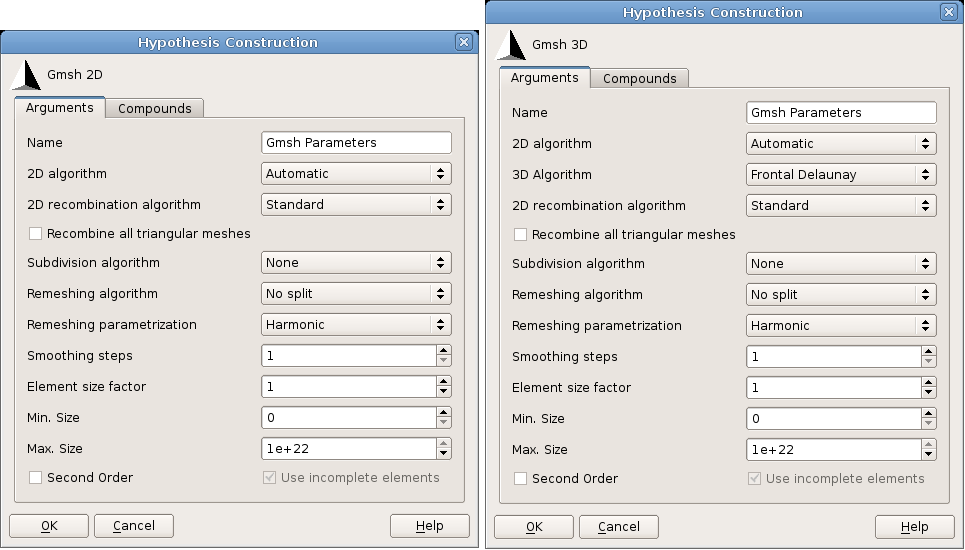
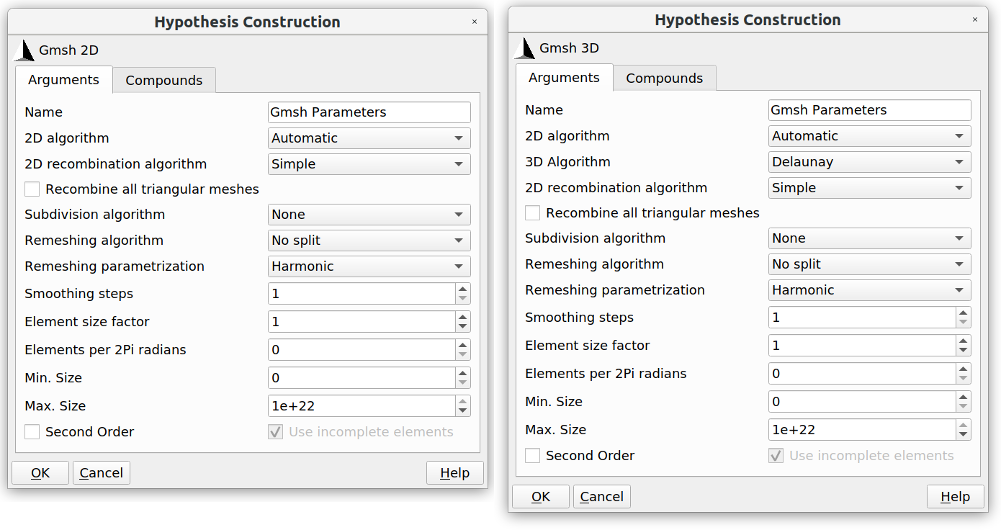
Gmsh upgrade 4.8 -> 4.10 - This commit adds interfaces MeshSizeFromCurvature which is used to control mesh size on curved edges (input [int] # of elements per 2Pi).
- Adds new algorithm for quad meshing from Gmsh based on frame-fields.

- Corrects gmsh options for meshsizes.

- Updates documentation.

diff --git a/src/GUI/GMSHPlugin_msg_en.ts b/src/GUI/GMSHPlugin_msg_en.ts
@@ -20,6 +20,10 @@
         <translation>Hypothesis Construction</translation>
     </message>
     <message>
+        <source>GMSH_SIZE_FROM_CURVATURE</source>
+        <translation>Elements per 2Pi radians</translation>
+    </message>
+    <message>
         <source>GMSH_MAX_SIZE</source>
         <translation>Max. Size</translation>
     </message>
@@ -61,7 +65,7 @@
     </message>
     <message>
         <source>GMSH_MESH_ADAPT</source>
-        <translation>Mesh adapt</translation>
+        <translation>MeshAdapt</translation>
     </message>
     <message>
         <source>GMSH_DELAUNAY</source>
@@ -69,11 +73,15 @@
     </message>
     <message>
         <source>GMSH_FRONTAL</source>
-        <translation>Frontal</translation>
+        <translation>Frontal-Delaunay</translation>
     </message>
     <message>
         <source>GMSH_DELAUNAY_FOR_QUAD</source>
-        <translation>Delaunay for quads</translation>
+        <translation>Frontal-Delaunay for Quads</translation>
+    </message>
+    <message>
+        <source>GMSH_QUASI_STRUCTURED_QUAD</source>
+        <translation>Quasi-Structured Quad</translation>
     </message>
     <message>
         <source>GMSH_PACKING_OF_PARALLELOGRAMS</source>

diff --git a/src/GUI/GMSHPlugin_msg_fr.ts b/src/GUI/GMSHPlugin_msg_fr.ts
@@ -20,6 +20,10 @@
         <translation>Construction d&apos;une hypothèse</translation>
     </message>
     <message>
+        <source>GMSH_SIZE_FROM_CURVATURE</source>
+        <translation>Eléments par 2Pi radians</translation>
+    </message>
+    <message>
         <source>GMSH_MAX_SIZE</source>
         <translation>Taille maximale</translation>
     </message>
@@ -78,6 +82,10 @@
     <message>
         <source>GMSH_DELAUNAY_FOR_QUAD</source>
         <translation>Delaunay pour quads</translation>
+    </message>
+    <message>
+        <source>GMSH_QUASI_STRUCTURED_QUAD</source>
+        <translation>Quadrangles quasi-structuré</translation>
     </message>
     <message>
         <source>GMSH_PACKING_OF_PARALLELOGRAMS</source>

diff --git a/src/GUI/GMSHPluginGUI_HypothesisCreator.h b/src/GUI/GMSHPluginGUI_HypothesisCreator.h
@@ -45,8 +45,13 @@ typedef struct
   int                 mySubdivAlgo,myRemeshAlgo,myRemeshPara,mySmouthSteps;
   bool                myUseIncomplElem;
   bool                mySecondOrder;
+#if GMSH_MAJOR_VERSION >=4 && GMSH_MINOR_VERSION >=10
+  double              mySizeFactor,myMaxSize, myMinSize, myMeshCurvatureSize;
+  QString             myMaxSizeVar, myMinSizeVar, mySmouthStepsVar, mySizeFactorVar, myMeshCurvatureSizeVar;
+#else
   double              mySizeFactor,myMaxSize, myMinSize;
   QString             myMaxSizeVar, myMinSizeVar, mySmouthStepsVar, mySizeFactorVar;
+#endif
   mutable QString     myErrorMsg;
 } GmshHypothesisData;
 
@@ -95,6 +100,9 @@ private:
  QComboBox*        myRemeshPara;
  SMESHGUI_SpinBox* mySmouthSteps;
  SMESHGUI_SpinBox* mySizeFactor;
+#if GMSH_MAJOR_VERSION >=4 && GMSH_MINOR_VERSION >=10
+ SMESHGUI_SpinBox* myMeshCurvatureSize;
+#endif
  SMESHGUI_SpinBox* myMaxSize;
  SMESHGUI_SpinBox* myMinSize;
  QCheckBox*        myUseIncomplElem;
